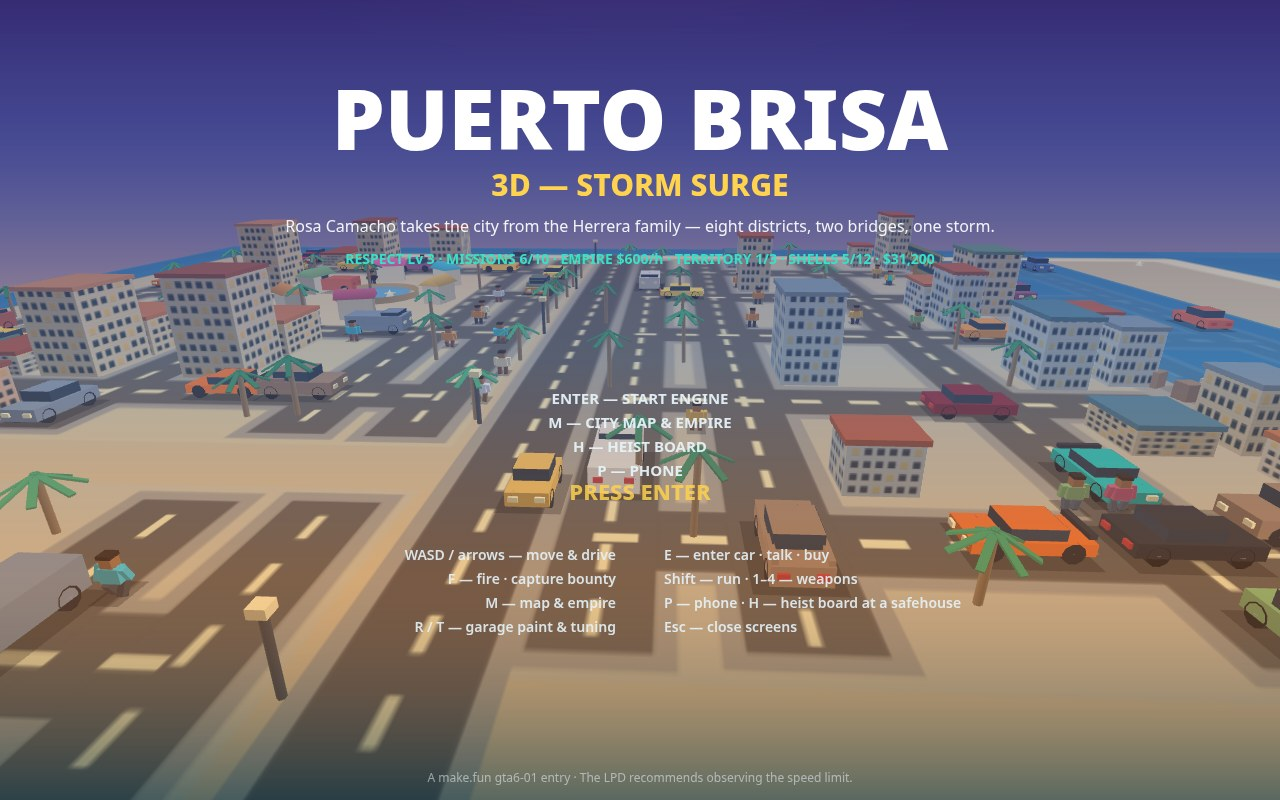
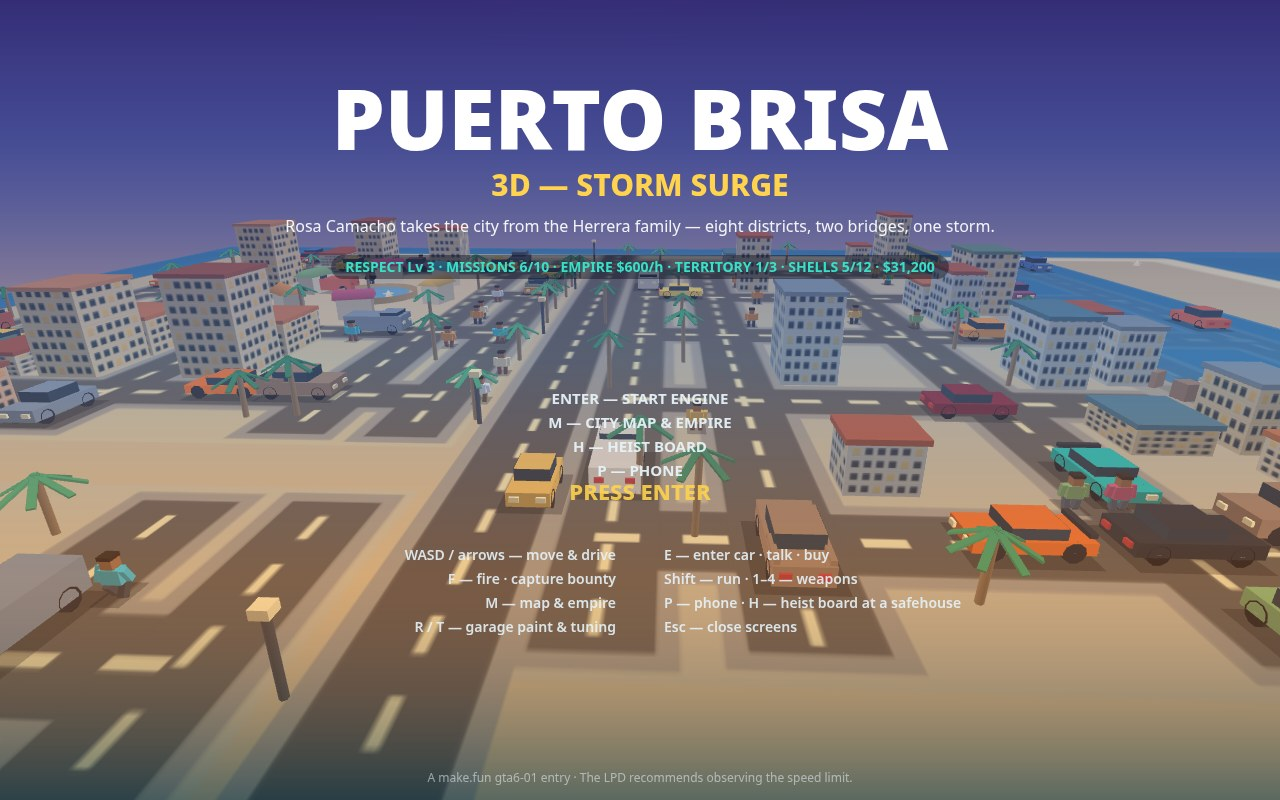
Title screen readability pass + refreshed screenshots

diff --git a/game/src/screens.js b/game/src/screens.js
@@ -47,9 +47,16 @@ export function drawTitleScreen(S, ctx, W, H) {
   const prog = S.progress || {};
   let income = 0;
   try { income = empireIncomePerHour(S) || 0; } catch (e) { income = 0; }
-  ctx.fillStyle = '#38e0c8';
   ctx.font = '700 14px system-ui, sans-serif';
-  ctx.fillText(`RESPECT Lv ${prog.respectLevel || 0} · MISSIONS ${(prog.missionsDone || []).length}/10 · EMPIRE $${income}/h · TERRITORY ${(prog.territoryTaken || []).length}/3 · SHELLS ${prog.shellsFound || 0}/12 · $${(prog.cash || 0).toLocaleString('en-US')}`, W / 2, 264);
+  const statsText = `RESPECT Lv ${prog.respectLevel || 0} · MISSIONS ${(prog.missionsDone || []).length}/10 · EMPIRE $${income}/h · TERRITORY ${(prog.territoryTaken || []).length}/3 · SHELLS ${prog.shellsFound || 0}/12 · $${(prog.cash || 0).toLocaleString('en-US')}`;
+  const statsW = ctx.measureText(statsText).width + 28;
+  ctx.fillStyle = 'rgba(10,16,28,0.45)';
+  ctx.beginPath();
+  if (ctx.roundRect) ctx.roundRect(W / 2 - statsW / 2, 255, statsW, 24, 12);
+  else ctx.rect(W / 2 - statsW / 2, 255, statsW, 24);
+  ctx.fill();
+  ctx.fillStyle = '#38e0c8';
+  ctx.fillText(statsText, W / 2, 272);
 
   ctx.font = '600 14px system-ui, sans-serif';
   ctx.fillStyle = 'rgba(230,242,248,0.9)';

diff --git a/game/src/screenshot-scenes.js b/game/src/screenshot-scenes.js
@@ -178,7 +178,7 @@ function stageEmpire(S) {
 
 function stageTitle(S) {
   S.screen = 'title';
-  S.dayT = 17.8; // golden hour for the orbit behind the menu
+  S.dayT = 17.6; // golden hour for the orbit behind the menu
   S.weather.storm = 0.1;
   // A run worth showing on the stats strip: six jobs done, a foothold
   // in the empire, cash in hand. baseProgress(…, 150) lands respect
